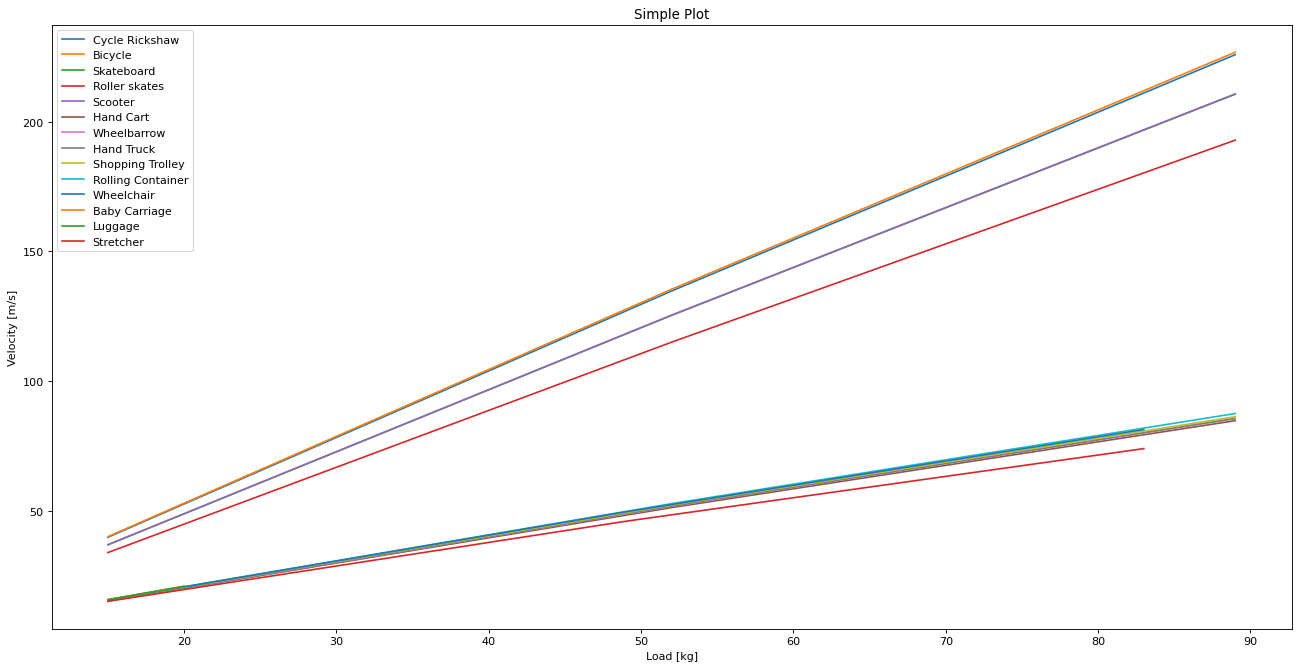
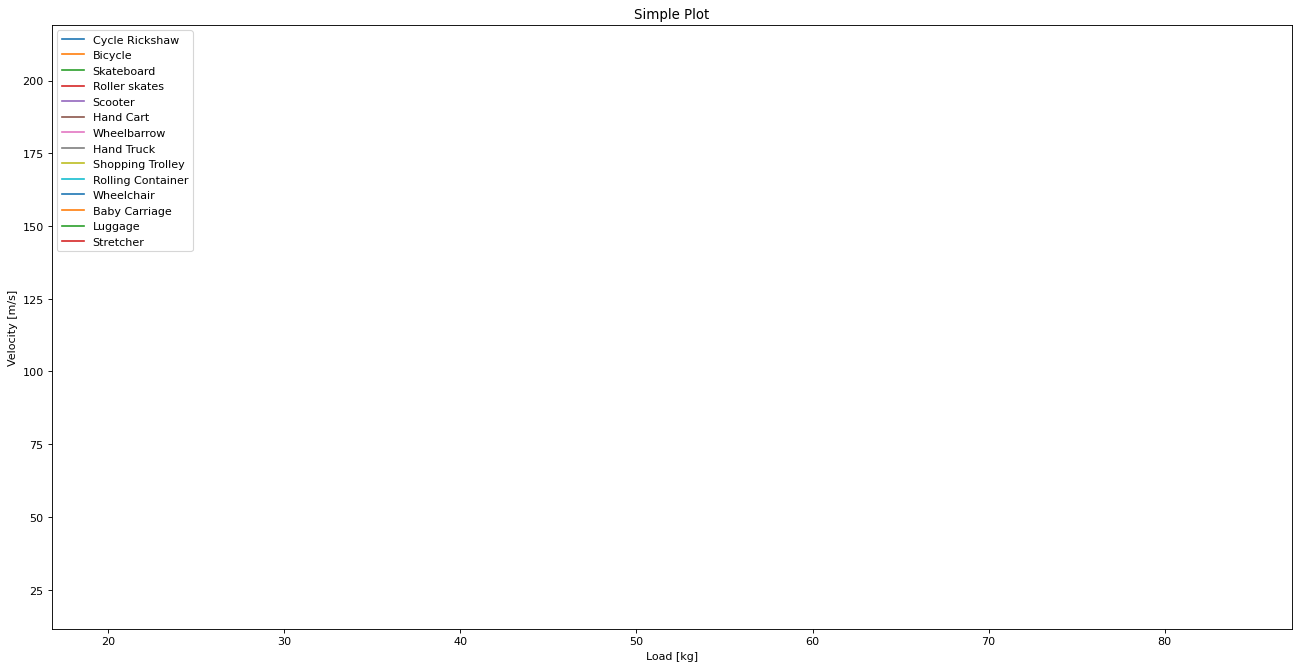
output file created

diff --git a/walkingModel.py b/walkingModel.py
@@ -3,110 +3,171 @@ import numpy as np
 import matplotlib as mpl
 import matplotlib.pyplot as plt
 
+def walkmodel(param_df,s_deg,m1,P_t,F_max,L,minimumViableLoad,t_hours,res,single):
+
+    #### constants
+    g=9.81
+    pi = 3.1416
+
+    #### Data Accounting
+    s = (s_deg/360)*(2*pi) #converts s in to radians
+    n_hpv = len(param_df.Name)
+    n = np.array(param_df.Efficiency).reshape((n_hpv,1))
+    Crr = np.array(param_df.Crr).reshape((n_hpv,1))
+    v_no_load = np.array(param_df.AverageSpeedWithoutLoad).reshape((n_hpv,1))
+    max_load_HPV = np.array(param_df.LoadCapacity).reshape((n_hpv,1))
+    m_HPV_only = param_df.LoadCapacity*0.05;                    # assume 5# of load is the wight of HPV
+
+    if s != 0:  #requires check to avoid divide by zero
+        max_pushable_weight = F_max/(np.sin(s)*g)
+    else:
+        max_pushable_weight = 10000 #some large number, weight will be determined by HPV loading
+
+    #### Weight limits
+    # Calculate weight limits for hills. There are some heavy loads which humans will not be able to push up certain hills
+    # Note that this is for average slopes etc. This will be innacurate (i.e one VERY hilly section could render the whole tri impossible, this isn't accounted for here)
+
+    i=0
+    for  HPV_weight in m_HPV_only:
+        if max_load_HPV[i]+HPV_weight>max_pushable_weight:
+            max_load_HPV[i] = max_pushable_weight-HPV_weight
+        i+=1
+
+
+    if single == 0:  #check if calaculting a range of weights, or only the max weight
+        #### Create linear space of weights
+        # creates a vector for each of the HPVs, an equal number of elements spaced 
+        # evenly between the minimum viable load and the maximum load for that HPV
+        load_matrix = np.zeros((len(param_df.LoadCapacity),res))    # initilaise numpy matrix
+        i=0                                                         # initliase index
+        for maxval in np.nditer(max_load_HPV):
+            minval = minimumViableLoad
+            load_vector =   np.linspace(start = minval,             # define linear space of weights
+                            stop =maxval,                           # define maximum value for linear space
+                            num = res,                              # how many data points?
+                            endpoint = True,
+                            retstep = False,
+                            dtype = None)
+            load_matrix[i:] = load_vector                           # place the vector in to a matrix
+            i += 1                                                  # increment index
+    else:
+        load_matrix = max_load_HPV
+
+
+    #### Derivations of further mass variables
+    vecnp = np.array(m1*param_df.Pilot + m_HPV_only).reshape((n_hpv,1)) # crate vector with extra weights to add
+    m_HPV_load_pilot = load_matrix + vecnp # weight of the HPV plus the rider (if any) plus the load
+    m_walk_carry = m1 + m_HPV_load_pilot * (np.array(param_df.GroundContact).reshape((n_hpv,1))-1)*-1 # negative 1 is to make the wheeled = 0 and the walking = 1
+    m_HPV_load = load_matrix + np.array(m_HPV_only).reshape((n_hpv,1)) 
+    # weight of the mass being 'walked', i.e the wieght of the human plus anything they are carrying (not pushing or riding)
+
+    #### Constants from polynomial equation analysis
+    C = ((m_walk_carry)*g/pi)*(3*g*L/2)**(1/2)
+    D = pi**2/(6*g*L)
+    B1 = m_HPV_load_pilot*g*np.cos(np.arctan(s))*Crr     # rolling resistance component
+    B2 = m_HPV_load_pilot * np.sin(np.arctan(s))         # slope component
+    B = B1 + B2
+
+    ##### velocities
+    v_load = (-B + np.sqrt(B**2+(2*C*D*P_t)/n))/(C*D/n);    # loaded velocity
+
+    # if loaded speed is greater than unloaded avg speed, make equal to avg unloaded speed
+    i=0
+    for maxval in v_no_load:
+        indeces = v_load[i]>maxval
+        v_load[i,indeces]=maxval
+        i+=1
+
+    # calcualte average speed, half of the trip is loaded, and half is unloaded
+    v_avg = (v_load+v_no_load)/2; #average velocity for a round trip
+
+    #### Forces and Power
+    F_push_hill = np.sin(s)*m_HPV_load*g # force required to push uphill (approx)
+
+    #### Distance
+    t_secs=t_hours*60*60
+    distance_achievable = (v_avg*t_secs)/1000 #kms
+
+    return distance_achievable , v_avg , load_matrix
+
+
+#### STart Script
+
 with open("ModelParams.csv") as csv_file:
     # read the csv file
     param_df = pd.read_csv("ModelParams.csv") 
 
 #### variables (changeable)
-s_deg=20         # slope in degrees
+s_deg = 10        # slope in degrees
 m1=83           # mass of rider/person
 P_t=75          #power output of person (steady state average)
 F_max = 300     # maximum force exertion for pushing up a hill for a short amount of time
 L=1             #leg length
 minimumViableLoad = 15 # in kg, the minimum useful load for such a trip
-res = 3        # resolution (how many datapoints for linear space)
+t_hours=8       # number of hours to gatehr water
 
-#### constants
-g=9.81
-pi = 3.1416
+## Options
+res = 50        # resolution (how many datapoints for linear space)
+single_load = 1    # 1= single load, or 0 = linspace of loads
+plotting = 1
+single_slope = 0
+slope_start = 0
+slope_end = 20
+slope_res = 5
 
-#### Data Accounting
-s = (s_deg/360)*(2*pi) #converts s in to radians
-n_hpv = len(param_df.Name)
-n = np.array(param_df.Efficiency).reshape((n_hpv,1))
-Crr = np.array(param_df.Crr).reshape((n_hpv,1))
-v_no_load = np.array(param_df.AverageSpeedWithoutLoad).reshape((n_hpv,1))
-max_load_HPV = np.array(param_df.LoadCapacity).reshape((n_hpv,1))
-if s != 0:  #requires check to avoid divide by zero
-    max_pushable_weight = F_max/(np.sin(s)*g)
+if single_slope == 0:
+    slope_vector =   np.linspace(start = slope_start,             # define linear space of weights
+                            stop =slope_end,                           # define maximum value for linear space
+                            num = slope_res,                              # how many data points?
+                            endpoint = True,
+                            retstep = False,
+                            dtype = None)
+    i=0
+
+    d_var_matrix = np.zeros((len(slope_vector),len(param_df.Name)))
+    v_avg_matrix = np.zeros((len(slope_vector),len(param_df.Name)))
+    load_vector_matrix = np.zeros((len(slope_vector),len(param_df.Name)))
+
+
+    for slope in slope_vector:
+        distance_achievable , v_avg , load_matrix = walkmodel(param_df,slope,m1,P_t,F_max,L,minimumViableLoad,t_hours,res,single_load)
+        d_var_matrix[i] = distance_achievable.reshape(len(param_df.Name))
+        v_avg_matrix[i] = v_avg.reshape(len(param_df.Name))
+        load_vector_matrix[i] = load_matrix.reshape(len(param_df.Name))
+        i+=1
 else:
-    max_pushable_weight = 10000 #some large number, weight will be determined by HPV loading
+    distance_achievable , v_avg , load_matrix = walkmodel(param_df,s_deg,m1,P_t,F_max,L,minimumViableLoad,t_hours,res,single_load)
 
+    
+velocitykgs=v_avg_matrix*load_vector_matrix
 
-#### Weight limits
-# Calculate weight limits for hills. There are some heavy loads which humans will not be able to push up certain hills
-# Note that this is for average slopes etc. This will be innacurate (i.e one VERY hilly section could render the whole tri impossible, this isn't accounted for here)
+np.savetxt("velocitykgs.csv", velocitykgs, delimiter=",")
 
-max_load_HPV[max_load_HPV>max_pushable_weight]=max_pushable_weight
-
-
-
-#### Create linear space of weights
-# creates a vector for each of the HPVs, an equal number of elements spaced 
-# evenly between the minimum viable load and the maximum load for that HPV
-load_matrix = np.zeros((len(param_df.LoadCapacity),res))    # initilaise numpy matrix
-i=0                                                         # initliase index
-for maxval in np.nditer(max_load_HPV):
-    minval = minimumViableLoad
-    load_vector =   np.linspace(start = minval,             # define linear space of weights
-                    stop =maxval,                           # define maximum value for linear space
-                    num = res,                              # how many data points?
-                    endpoint = True,
-                    retstep = False,
-                    dtype = None)
-    load_matrix[i:] = load_vector                           # place the vector in to a matrix
-    i += 1                                                  # increment index
-
-#### Derivations of further mass variables
-m_HPV_only = param_df.LoadCapacity*0.05;                    # assume 5# of load is the wight of HPV
-vecnp = np.array(m1*param_df.Pilot + m_HPV_only).reshape((n_hpv,1)) # crate vector with extra weights to add
-m_HPV_load_pilot = load_matrix + vecnp # weight of the HPV plus the rider (if any) plus the load
-m_walk_carry = m1 + m_HPV_load_pilot * (np.array(param_df.GroundContact).reshape((n_hpv,1))-1)*-1 # negative 1 is to make the wheeled = 0 and the walking = 1
-m_HPV_load = load_matrix + np.array(m_HPV_only).reshape((n_hpv,1)) 
-# weight of the mass being 'walked', i.e the wieght of the human plus anything they are carrying (not pushing or riding)
-
-#### Constants from polynomial equation analysis
-C = ((m_walk_carry)*g/pi)*(3*g*L/2)**(1/2)
-D = pi**2/(6*g*L)
-B1 = m_HPV_load_pilot*g*np.cos(np.arctan(s))*Crr     # rolling resistance component
-B2 = m_HPV_load_pilot * np.sin(np.arctan(s))         # slope component
-B = B1 + B2
-
-##### velocities
-v_load = (-B + np.sqrt(B**2+(2*C*D*P_t)/n))/(C*D/n);    # loaded velocity
-
-# if loaded speed is greater than unloaded avg speed, make equal to avg unloaded speed
 i=0
-for maxval in v_no_load:
-    indeces = v_load[i]>maxval
-    v_load[i,indeces]=maxval
-    i+=1
+if plotting == 1:
 
-# calcualte average speed, half of the trip is loaded, and half is unbload
-v_avg = (v_load+v_no_load)/2; #average velocity for a round trip
+    fig, ax = plt.subplots(figsize=(20, 10))
+    for HPVname in param_df.Name:
+        ax.plot(load_matrix[i], v_avg[i]*load_matrix[i], label=HPVname)  # Plot some data on the axes.
+        i += 1
+    plt.xlabel('Load [kg]')
+    plt.ylabel('Velocity Kgs [m/s]')
+    plt.title("Simple Plot")
+    plt.legend();
 
-#### Forces and Power
-F_push_hill = np.sin(s)*m_HPV_load*g # force required to push uphill (approx)
+    # #### Plotting
+    # i=0
+    # fig = plt.figure(), #ax = plt.subplots(figsize=(20, 10))
+    # ax = fig.add_subplot(projection='3d')
+    # for HPVname in param_df.Name:
+    #     # ax.plot(load_vector_matrix[0:10,i], v_avg_matrix[0:10,i], label=HPVname)  # Plot some data on the axes.
+    #     ax.scatter(load_vector_matrix[:,i], v_avg_matrix[:,i], slope_vector,  label=HPVname)
+        
+    #     i += 1
+    # plt.xlabel('Load [kg]')
+    # plt.ylabel('Velocity [m/s]')
+    # plt.title("Simple Plot")
+    # plt.legend();
 
-
-#### Distance
-t_hours=8
-t_secs=8*60*60
-distance_achievable = (v_avg*t_secs)/1000 #kms
-
-#### Plotting
-i=0
-fig, ax = plt.subplots(figsize=(20, 10))
-for HPVname in param_df.Name:
-    ax.plot(load_matrix[i], v_avg[i]*load_matrix[i], label=HPVname)  # Plot some data on the axes.
-    i += 1
-plt.xlabel('Load [kg]')
-plt.ylabel('Velocity [m/s]')
-plt.title("Simple Plot")
-plt.legend();
-
-
-
-
-filename_output = 'velocity_slope' + str(s_deg)
-fig.savefig(filename_output, transparent=False, dpi=80, bbox_inches="tight")
+    # filename_output = 'velocity_slope' + str(s_deg)
+    # fig.savefig(filename_output, transparent=False, dpi=80, bbox_inches="tight")
